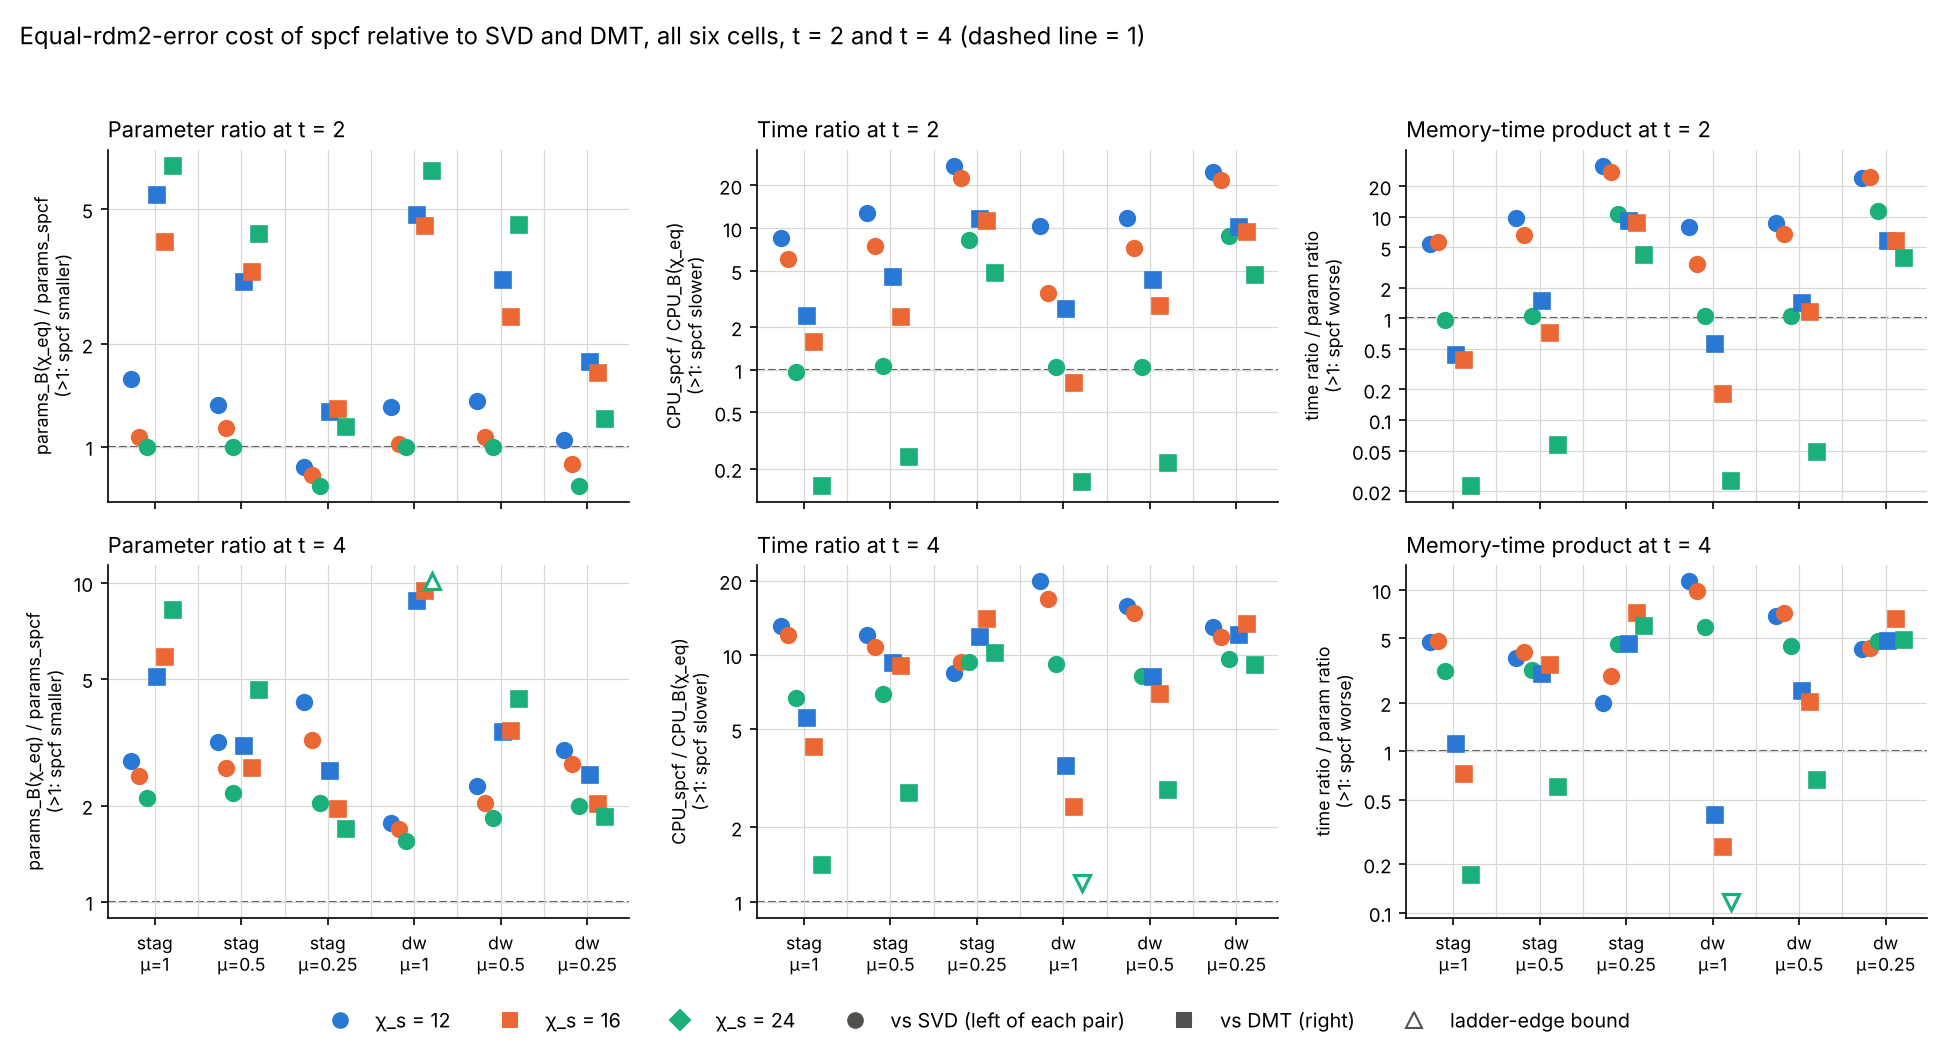
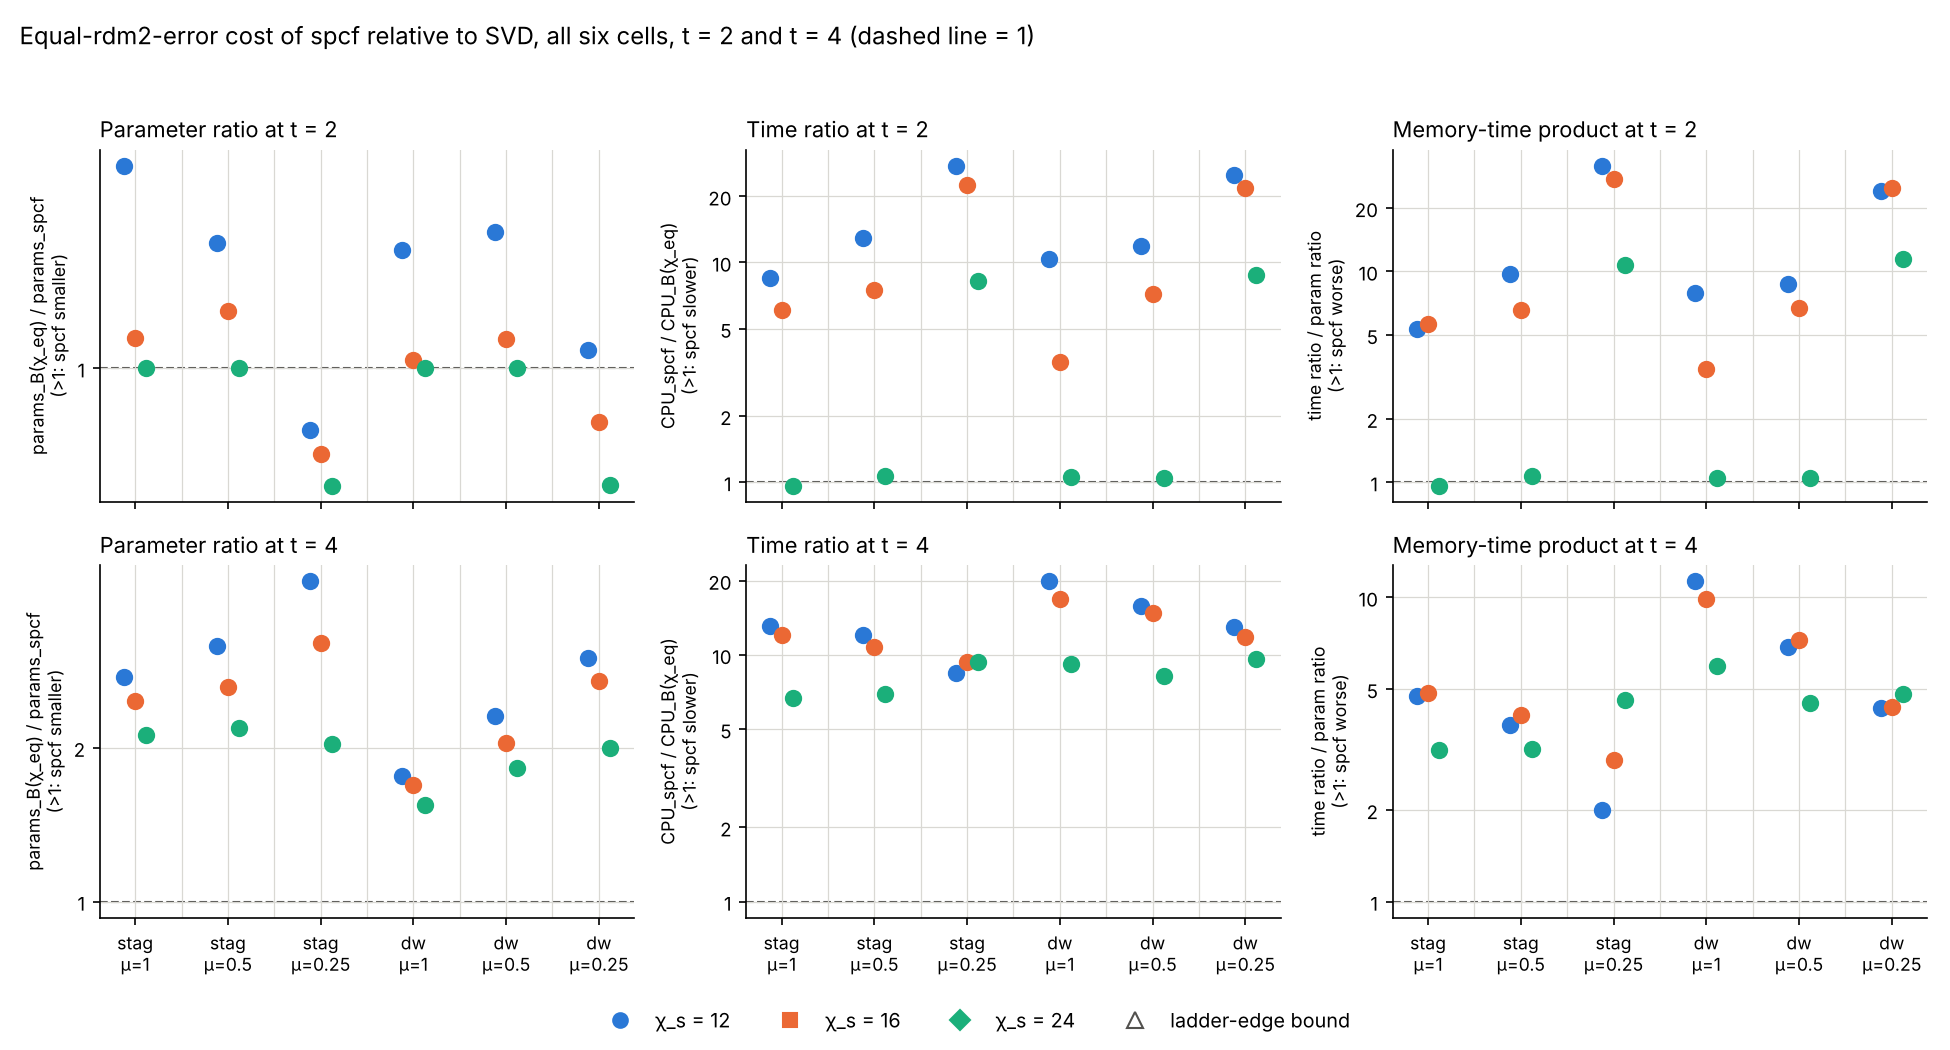
truncation: rank 2 equal-error summary plot vs SVD only (SVD+DMT version kept separately)
Claude-Session: https://claude.ai/code/session_015TtNrTWpKyfffAwG9xgJMB

diff --git a/experiments/truncation/graded_rule/rank2/eqerr_analysis.py b/experiments/truncation/graded_rule/rank2/eqerr_analysis.py
@@ -302,7 +302,7 @@ def fig_cell(recs, Ds, cell, metric='rdm2'):
     return fn
 
 
-def fig_summary(recs, metric='rdm2'):
+def fig_summary(recs, metric='rdm2', kinds=('SVD',)):
     import matplotlib
     matplotlib.use('Agg')
     import matplotlib.pyplot as plt
@@ -317,12 +317,12 @@ def fig_summary(recs, metric='rdm2'):
             ax = axs[row, col]
             _style(ax)
             for ci, cell in enumerate(CELLS):
-                for k, kind in enumerate(('SVD', 'DMT')):
+                for k, kind in enumerate(kinds):
                     for l, cs in enumerate(CHI_S):
                         r = get(recs, cell=cell, metric=metric, baseline=kind, chi_s=cs, t=t)[0]
                         if r['flag'] == 'exact':
                             continue
-                        x = ci + (-0.27 + 0.09 * l) + (0.0 if kind == 'SVD' else 0.30)
+                        x = ci + (0.12 * (l - 1) if len(kinds) == 1 else (-0.27 + 0.09 * l) + 0.30 * k)
                         bound = r['flag'] != 'ok'
                         up = (r['flag'] == 'above') == (q == 'param_ratio') if q != 'product' else r['flag'] == 'below'
                         mk = ('^' if up else 'v') if bound else ('o' if kind == 'SVD' else 's')
@@ -334,13 +334,14 @@ def fig_summary(recs, metric='rdm2'):
             for ci in range(1, len(CELLS)):
                 ax.axvline(ci - 0.5, color=GRID, lw=0.6)
     h = [Line2D([], [], marker=MRK[cs], color=COL[cs], ls='', ms=7, label=f'χ_s = {cs}') for cs in CHI_S]
-    h += [Line2D([], [], marker='o', color='#52514e', ls='', ms=7, label='vs SVD (left of each pair)'),
-          Line2D([], [], marker='s', color='#52514e', ls='', ms=7, label='vs DMT (right)'),
-          Line2D([], [], marker='^', mfc='white', mec='#52514e', ls='', ms=8, label='ladder-edge bound')]
+    if len(kinds) > 1:
+        h += [Line2D([], [], marker='o', color='#52514e', ls='', ms=7, label='vs SVD (left of each pair)'),
+              Line2D([], [], marker='s', color='#52514e', ls='', ms=7, label='vs DMT (right)')]
+    h += [Line2D([], [], marker='^', mfc='white', mec='#52514e', ls='', ms=8, label='ladder-edge bound')]
     fig.legend(handles=h, frameon=False, fontsize=9.5, loc='lower center', ncol=6)
-    fig.suptitle(f'Equal-{metric}-error cost of spcf relative to SVD and DMT, all six cells, t = 2 and t = 4 (dashed line = 1)', fontsize=11.5, x=0.01, ha='left')
+    fig.suptitle(f'Equal-{metric}-error cost of spcf relative to {" and ".join(kinds)}, all six cells, t = 2 and t = 4 (dashed line = 1)', fontsize=11.5, x=0.01, ha='left')
     fig.tight_layout(rect=(0, 0.05, 1, 0.96))
-    fn = os.path.join(HERE, 'figures', 'eqerr_summary.png')
+    fn = os.path.join(HERE, 'figures', 'eqerr_summary.png' if len(kinds) == 1 else 'eqerr_summary_svd_dmt.png')
     fig.savefig(fn, dpi=150)
     plt.close(fig)
     return fn
@@ -357,4 +358,5 @@ if __name__ == '__main__':
     for c in Ds:
         fig_cell(recs, Ds, c)
     fig_summary(recs)
+    fig_summary(recs, kinds=('SVD', 'DMT'))
     print(f'{len(recs)} records; flags:', {f: sum(r['flag'] == f for r in recs) for f in ('ok', 'above', 'below', 'exact')})
